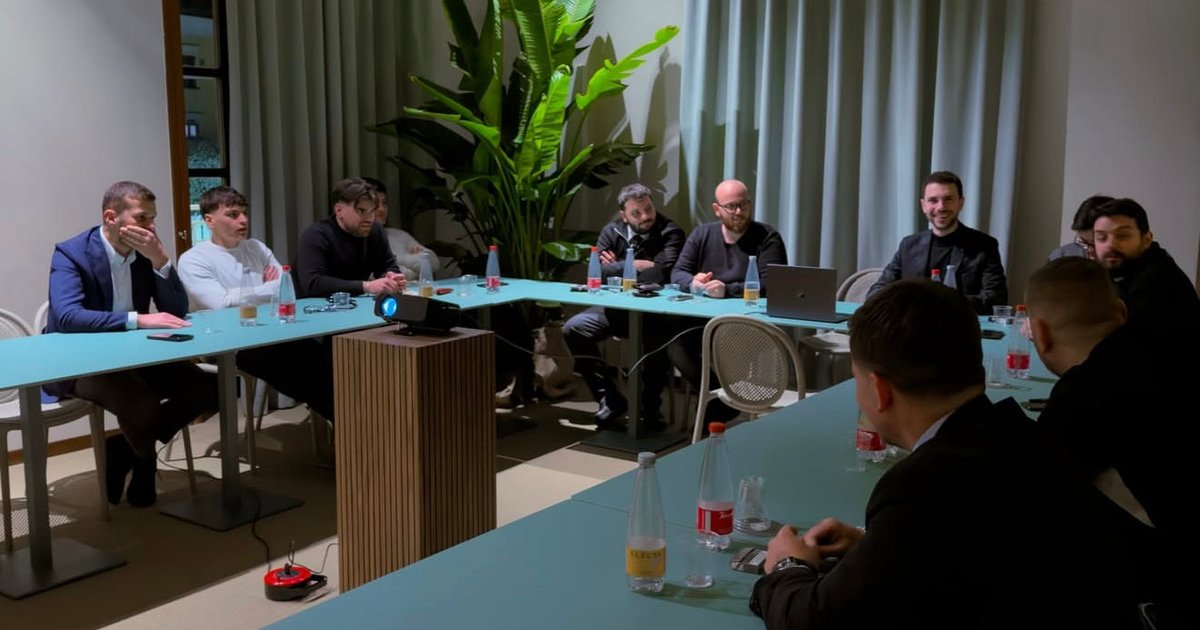
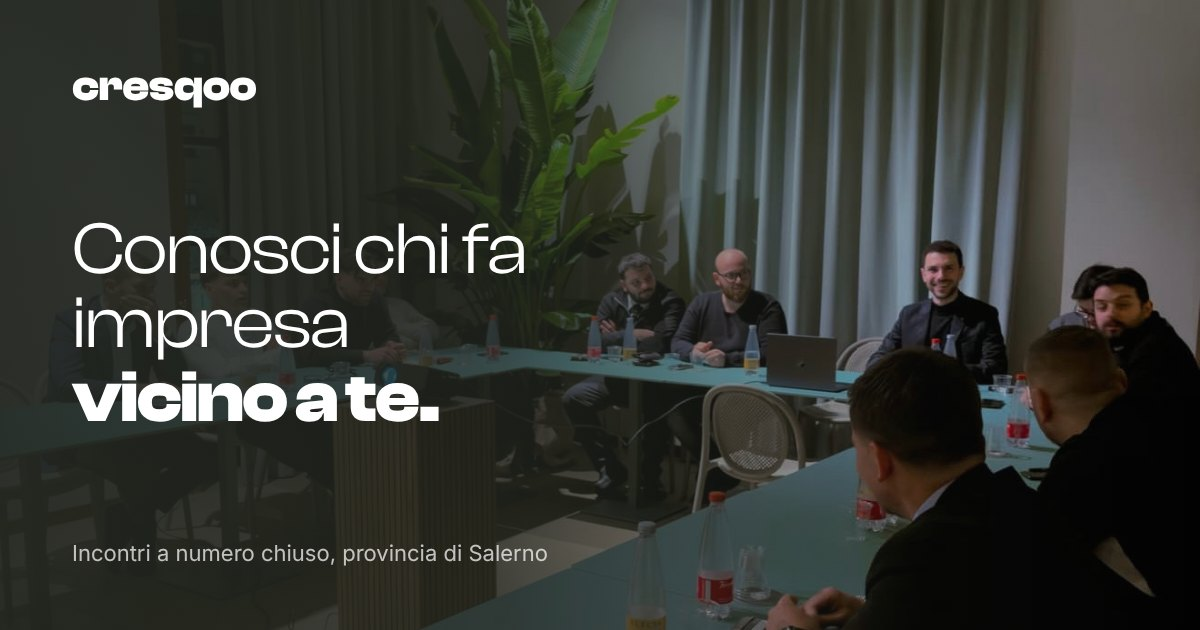
Anteprime di condivisione e icone coerenti con il brand
Claude-Session: https://claude.ai/code/session_01EDir4shzvhGnct4t3jNxqr

diff --git a/index.html b/index.html
@@ -3,16 +3,24 @@
 <head>
 <meta charset="utf-8">
 <meta name="viewport" content="width=device-width,initial-scale=1,viewport-fit=cover">
-<title>Cresqoo</title>
-<meta name="description" content="Incontri a numero chiuso tra imprenditori della provincia di Salerno. Prossimo incontro a novembre.">
+<title>Cresqoo, incontri tra imprenditori in provincia di Salerno</title>
+<meta name="description" content="Incontri a numero chiuso tra imprenditori della provincia di Salerno. Prossimo incontro a novembre, gratuito su candidatura.">
 <meta property="og:type" content="website">
-<meta property="og:title" content="Cresqoo">
-<meta property="og:description" content="Incontri a numero chiuso tra imprenditori della provincia di Salerno. Prossimo incontro a novembre.">
+<meta property="og:title" content="Cresqoo, incontri tra imprenditori in provincia di Salerno">
+<meta property="og:description" content="Incontri a numero chiuso tra imprenditori della provincia di Salerno. Prossimo incontro a novembre, gratuito su candidatura.">
 <meta property="og:url" content="https://cresqoo.com/">
-<meta property="og:image" content="https://cresqoo.com/assets/og.jpg">
+<meta property="og:image" content="https://cresqoo.com/assets/og.jpg?v=2">
+<meta property="og:image:width" content="1200">
+<meta property="og:image:height" content="630">
+<meta property="og:image:alt" content="Partecipanti a un incontro Cresqoo con la scritta Conosci chi fa impresa vicino a te">
+<meta property="og:site_name" content="Cresqoo">
+<meta property="og:locale" content="it_IT">
 <meta name="twitter:card" content="summary_large_image">
 <meta name="theme-color" content="#232720">
 <link rel="icon" href="assets/favicon.svg" type="image/svg+xml">
+<link rel="icon" href="assets/favicon-32.png" type="image/png" sizes="32x32">
+<link rel="apple-touch-icon" href="assets/apple-touch-icon.png">
+<link rel="canonical" href="https://cresqoo.com/">
 <style>html{-webkit-text-size-adjust:100%}body{margin:0}img{max-width:100%}[hidden]{display:none!important}:root{padding-top:env(safe-area-inset-top,0px);padding-bottom:env(safe-area-inset-bottom,0px)}</style>
 <!-- META PIXEL: incollare qui il codice base quando è disponibile l'ID -->
 </head>
